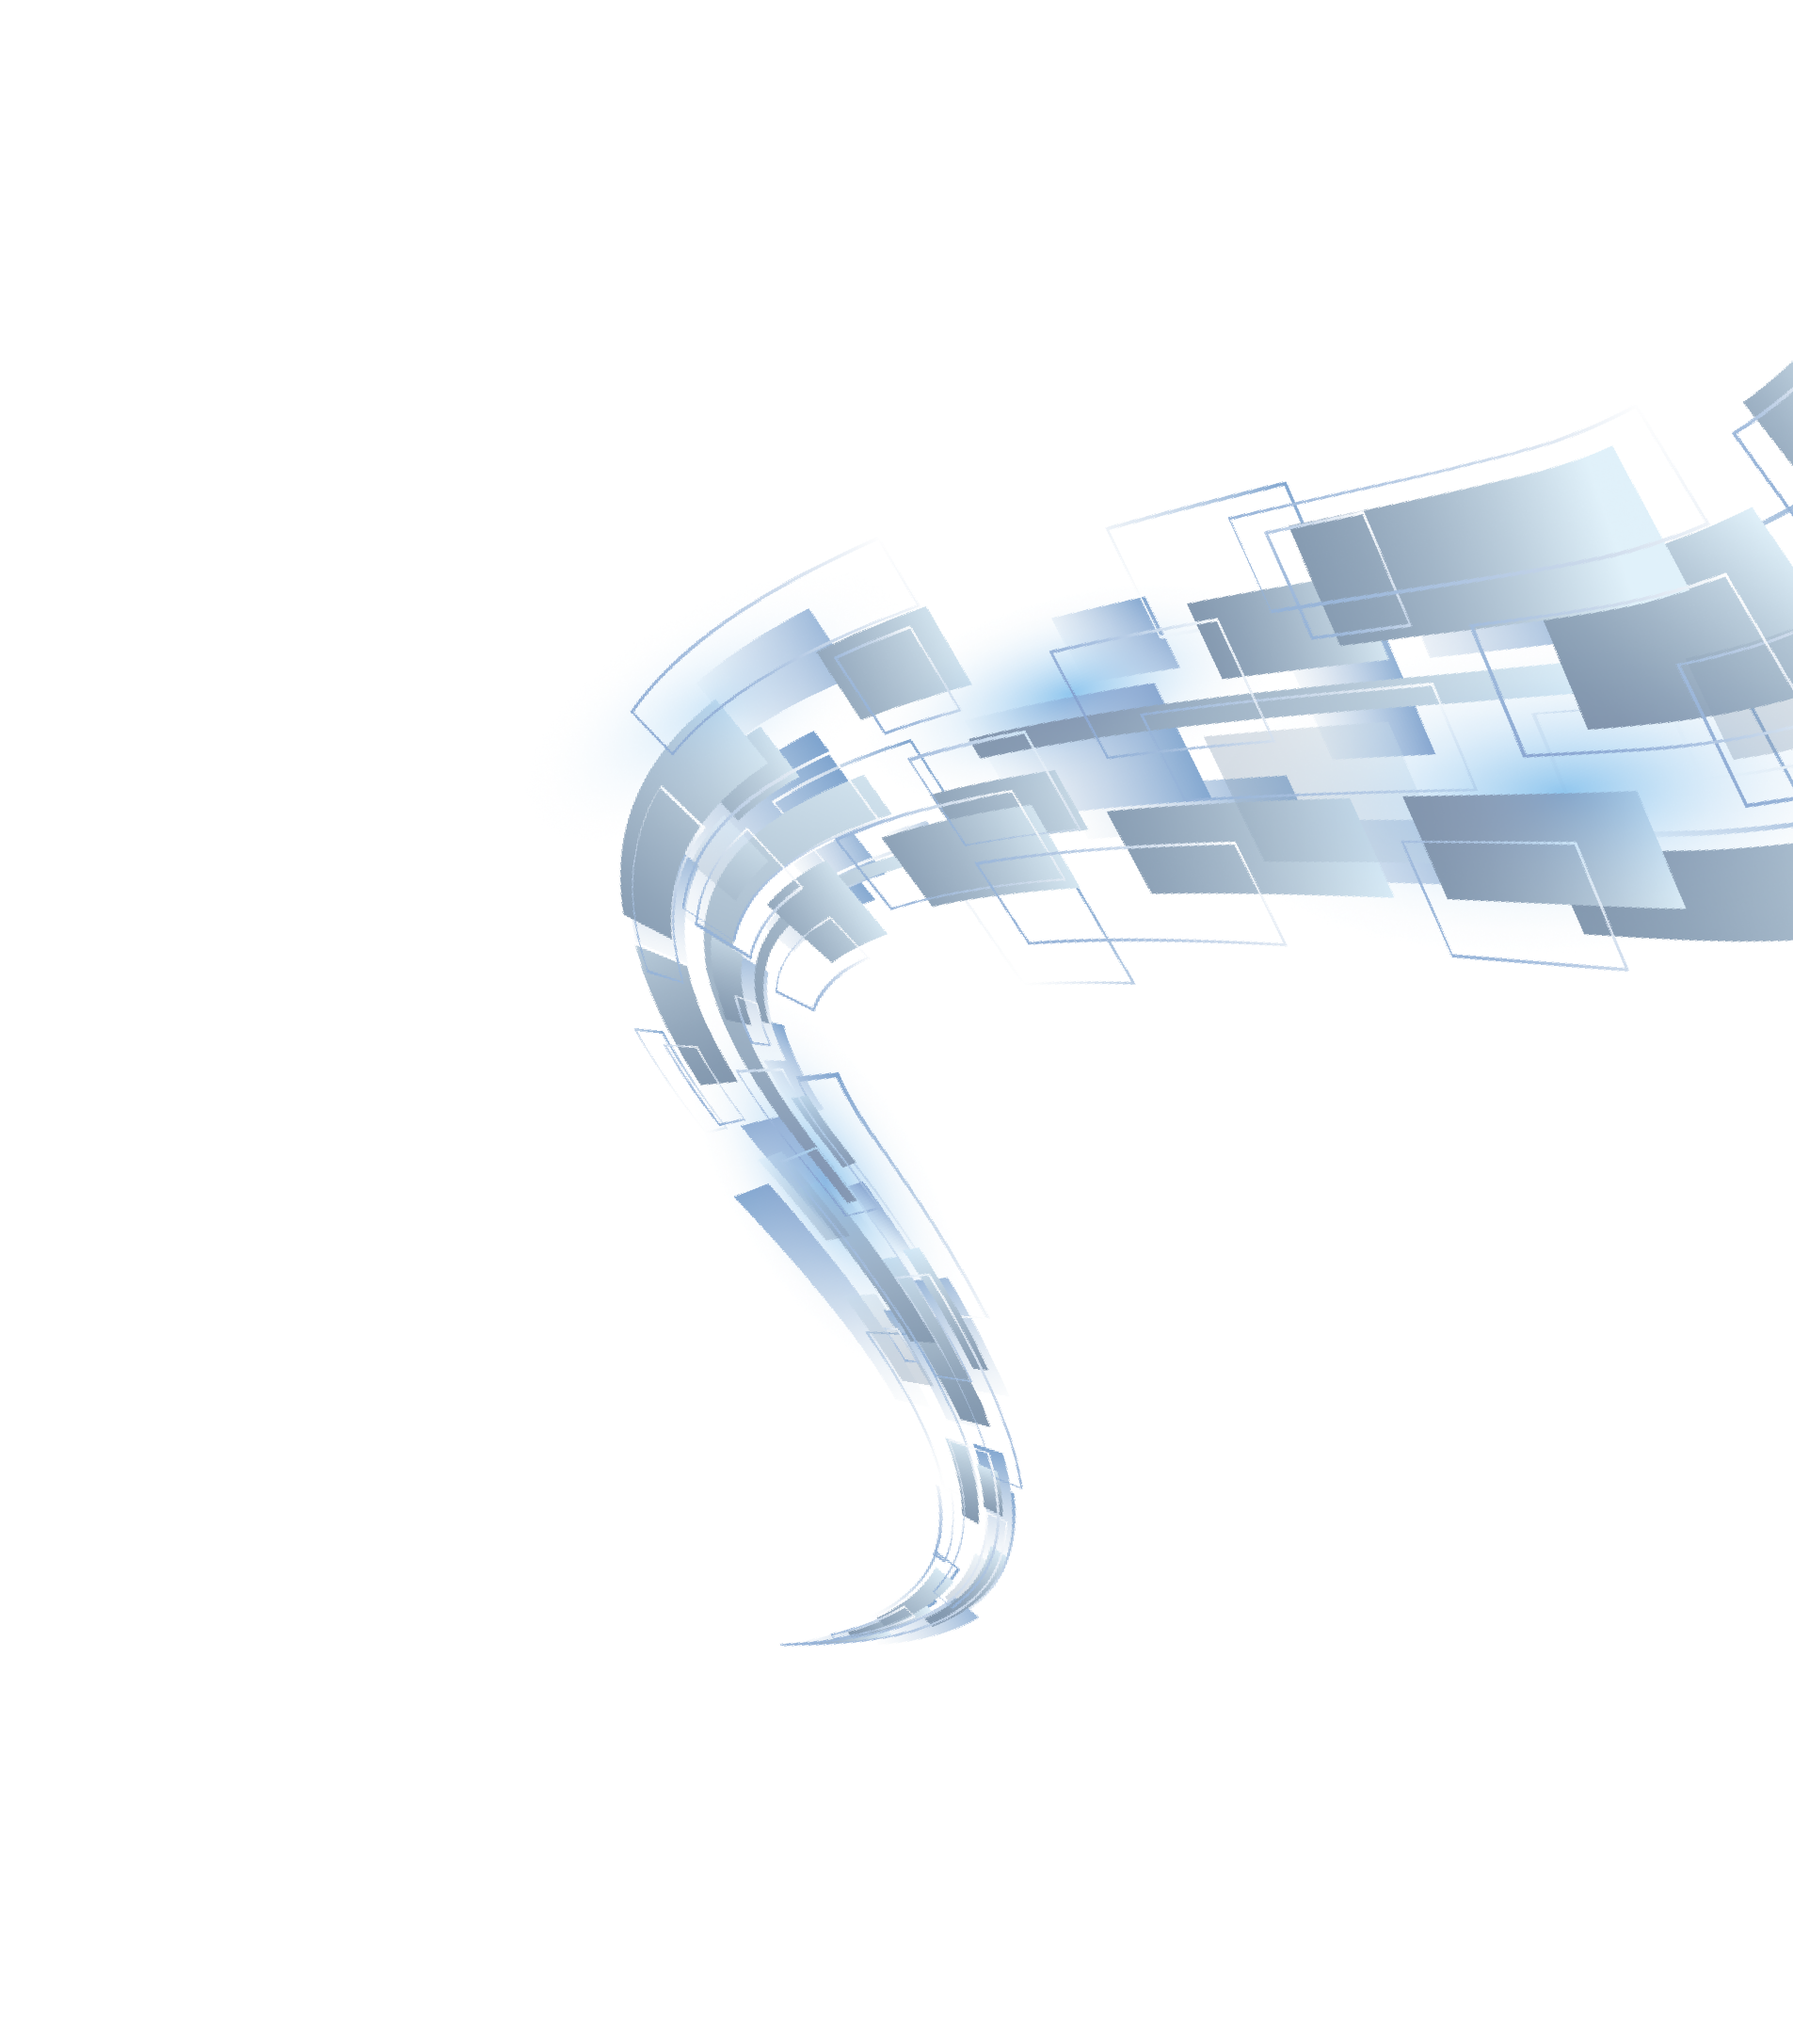
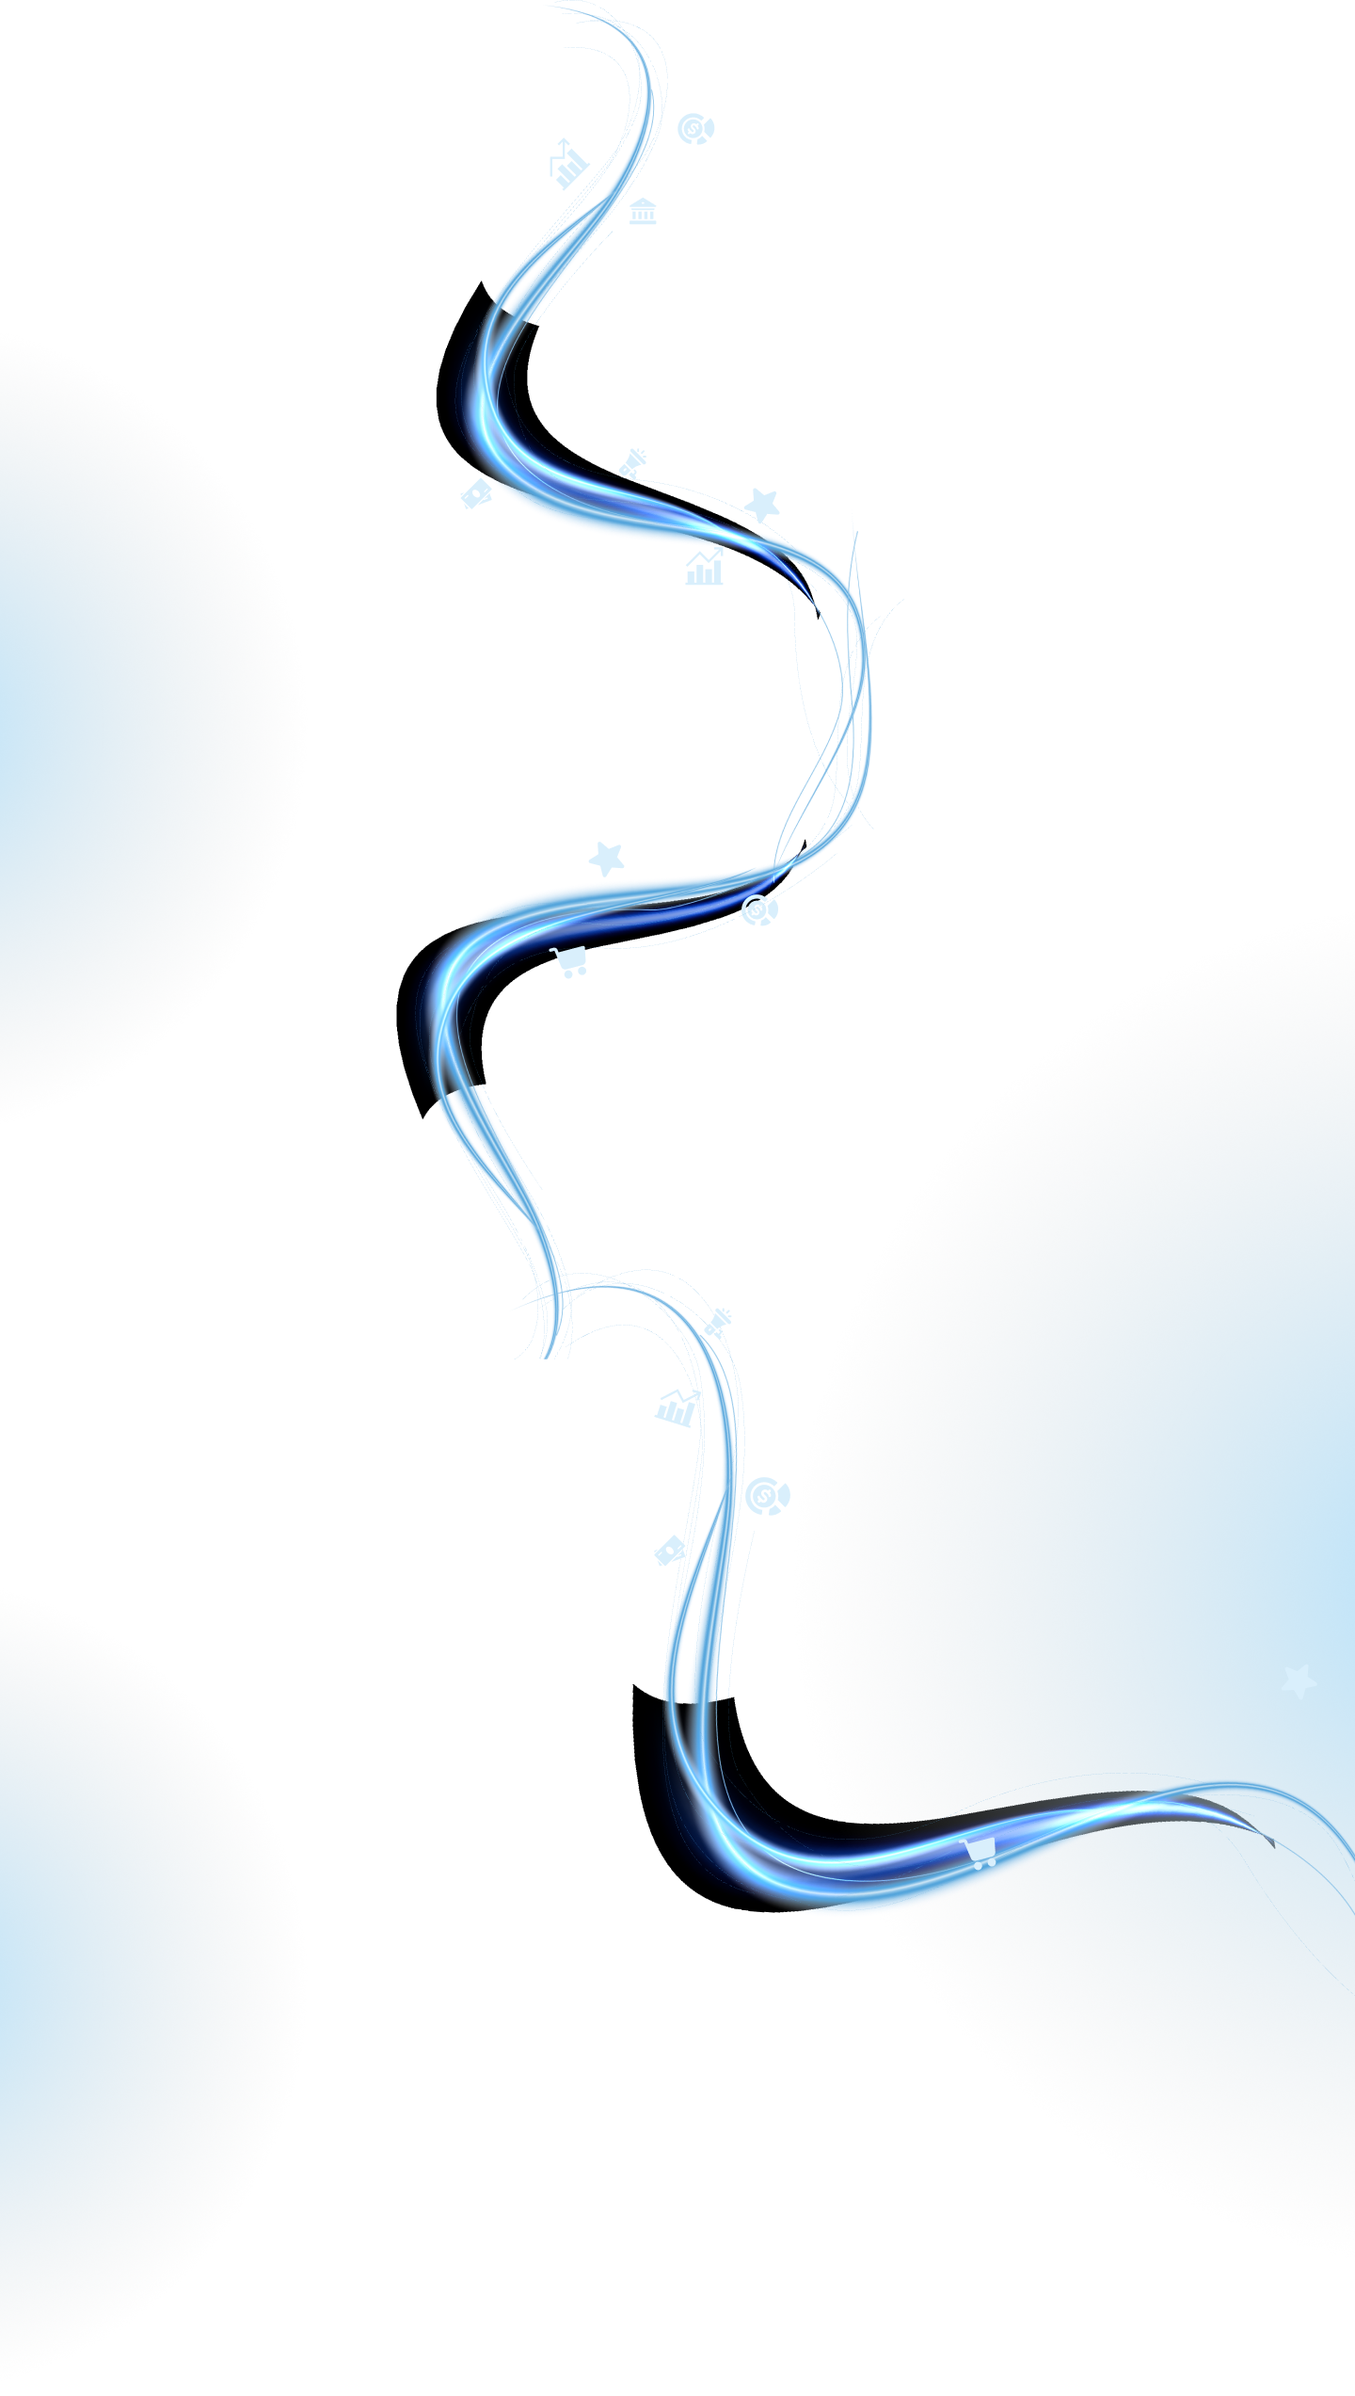
add css home and register

diff --git a/6.FE/Portal2/wwwroot/assets/css/style.css b/6.FE/Portal2/wwwroot/assets/css/style.css
@@ -440,7 +440,12 @@ a {
 .btn-request {
     border-radius: 2em;
 }
-
+.pl-2 {
+    padding-left: 2% !important;
+}
+.pl-3 {
+    padding-left: 3% !important;
+}
 .pl-5 {
     padding-left: 5% !important;
 }
@@ -741,16 +746,23 @@ a {
 }
 
 #HoTro {
-   /* background: url('../Data/bghotro.png') no-repeat top;
-    background-position: bottom 30% right;*/
+     background: url('/Data/bghotro.jpg') no-repeat top;
+    background-position: bottom 85% center;
 }
 
+.mb-6 {
+    margin-bottom: 4rem !important;
+}
+.p-dangky{
+    padding:6% 0;
+}
 .hotro-list {
     background: rgba(0, 0, 0, 0.001);
     border-radius: 12px;
     font-weight: 500;
-    padding: 25px 20px;
+    padding: 20px 10px 5px 10px;
     box-shadow: 2px 1px 2px 2px rgba(3, 78, 162, 0.12);
+    font-size: 14.5px;
 }
 
 .hotro-list .col-sm-7 {

diff --git a/3.Infrastructure/Repositories/Manager/ContactRepository.cs b/3.Infrastructure/Repositories/Manager/ContactRepository.cs
@@ -1,3 +1,4 @@
+using Microsoft.AspNetCore.Mvc.Rendering;
 using Microsoft.EntityFrameworkCore;
 using PT.Domain.Model;
 using PT.Infrastructure.Interfaces;
@@ -84,6 +85,18 @@ namespace PT.Infrastructure.Repositories
                 Page = page,
                 TotalRows = await query.CountAsync()
             };
+        }
+
+        public async Task<SelectList> ServiesList(string language, int portalId, int? parrentId = null)
+        {
+            List<Country> lstdata = new List<Country>
+            {
+                new Country { Id = 1, Name = "Bond Report" },
+                new Country { Id = 2, Name = "FiinPro-X & Bond Report" },
+                new Country { Id = 3, Name = "FiinPro-X Platform" }
+            };
+            var lstData = new SelectList(lstdata, "Id", "Name");
+            return lstData;
         }
     }
 }

diff --git a/6.FE/Portal2/Controllers/HomeController.cs b/6.FE/Portal2/Controllers/HomeController.cs
@@ -60,13 +60,6 @@ namespace PT.UI.Controllers
         public IActionResult Index(string linkData, int portalId)
         {
             ViewData["linkData"] = Newtonsoft.Json.JsonConvert.DeserializeObject<Link>(linkData);
-            List<Country> lstdata = new List<Country>
-            {
-                new Country { Id = 1, Name = "Báo cáo Trái phiếu" },
-                new Country { Id = 2, Name = "FiinPro-X & Báo cáo Trái phiếu" },
-                new Country { Id = 3, Name = "Nền tảng FiinPro-X" }
-            };
-            ViewBag.dataServies = new SelectList(lstdata, "Id", "Name");
             return View();
         }
         public IActionResult Page404(string linkData)

diff --git a/6.FE/Portal2/Controllers/ProductController.cs b/6.FE/Portal2/Controllers/ProductController.cs
@@ -45,13 +45,6 @@ namespace PT.UI.Controllers
         public IActionResult Index(string linkData, int portalId)
         {
             ViewData["linkData"] = Newtonsoft.Json.JsonConvert.DeserializeObject<Link>(linkData);
-            List<Country> lstdata = new List<Country>
-            {
-                new Country { Id = 1, Name = "Báo cáo Trái phiếu" },
-                new Country { Id = 2, Name = "FiinPro-X & Báo cáo Trái phiếu" },
-                new Country { Id = 3, Name = "Nền tảng FiinPro-X" }
-            };
-            ViewBag.dataServies = new SelectList(lstdata, "Id", "Name");
             return View();
         }
     }

diff --git a/6.FE/Portal2/Controllers/ContentPageController.cs b/6.FE/Portal2/Controllers/ContentPageController.cs
@@ -1,12 +1,13 @@
-using System;
-using System.Collections.Generic;
-using System.Linq;
-using System.Threading.Tasks;
-using Microsoft.AspNetCore.Mvc;
+using Microsoft.AspNetCore.Mvc;
+using Microsoft.AspNetCore.Mvc.Rendering;
 using PT.Base;
 using PT.Domain.Model;
 using PT.Infrastructure.Interfaces;
 using PT.Shared;
+using System;
+using System.Collections.Generic;
+using System.Linq;
+using System.Threading.Tasks;
 
 namespace PT.UI.Controllers
 {

diff --git a/3.Infrastructure/Interfaces/Manager/IContactRepository.cs b/3.Infrastructure/Interfaces/Manager/IContactRepository.cs
@@ -1,8 +1,11 @@
-using PT.Domain.Model;
+using Microsoft.AspNetCore.Mvc.Rendering;
+using PT.Domain.Model;
+using System.Threading.Tasks;
 
 namespace PT.Infrastructure.Interfaces
 {
     public interface IContactRepository : IGenericRepository<Contact>
     {
+        Task<SelectList> ServiesList(string language, int portalId, int? parrentId = null);
     }
 }
